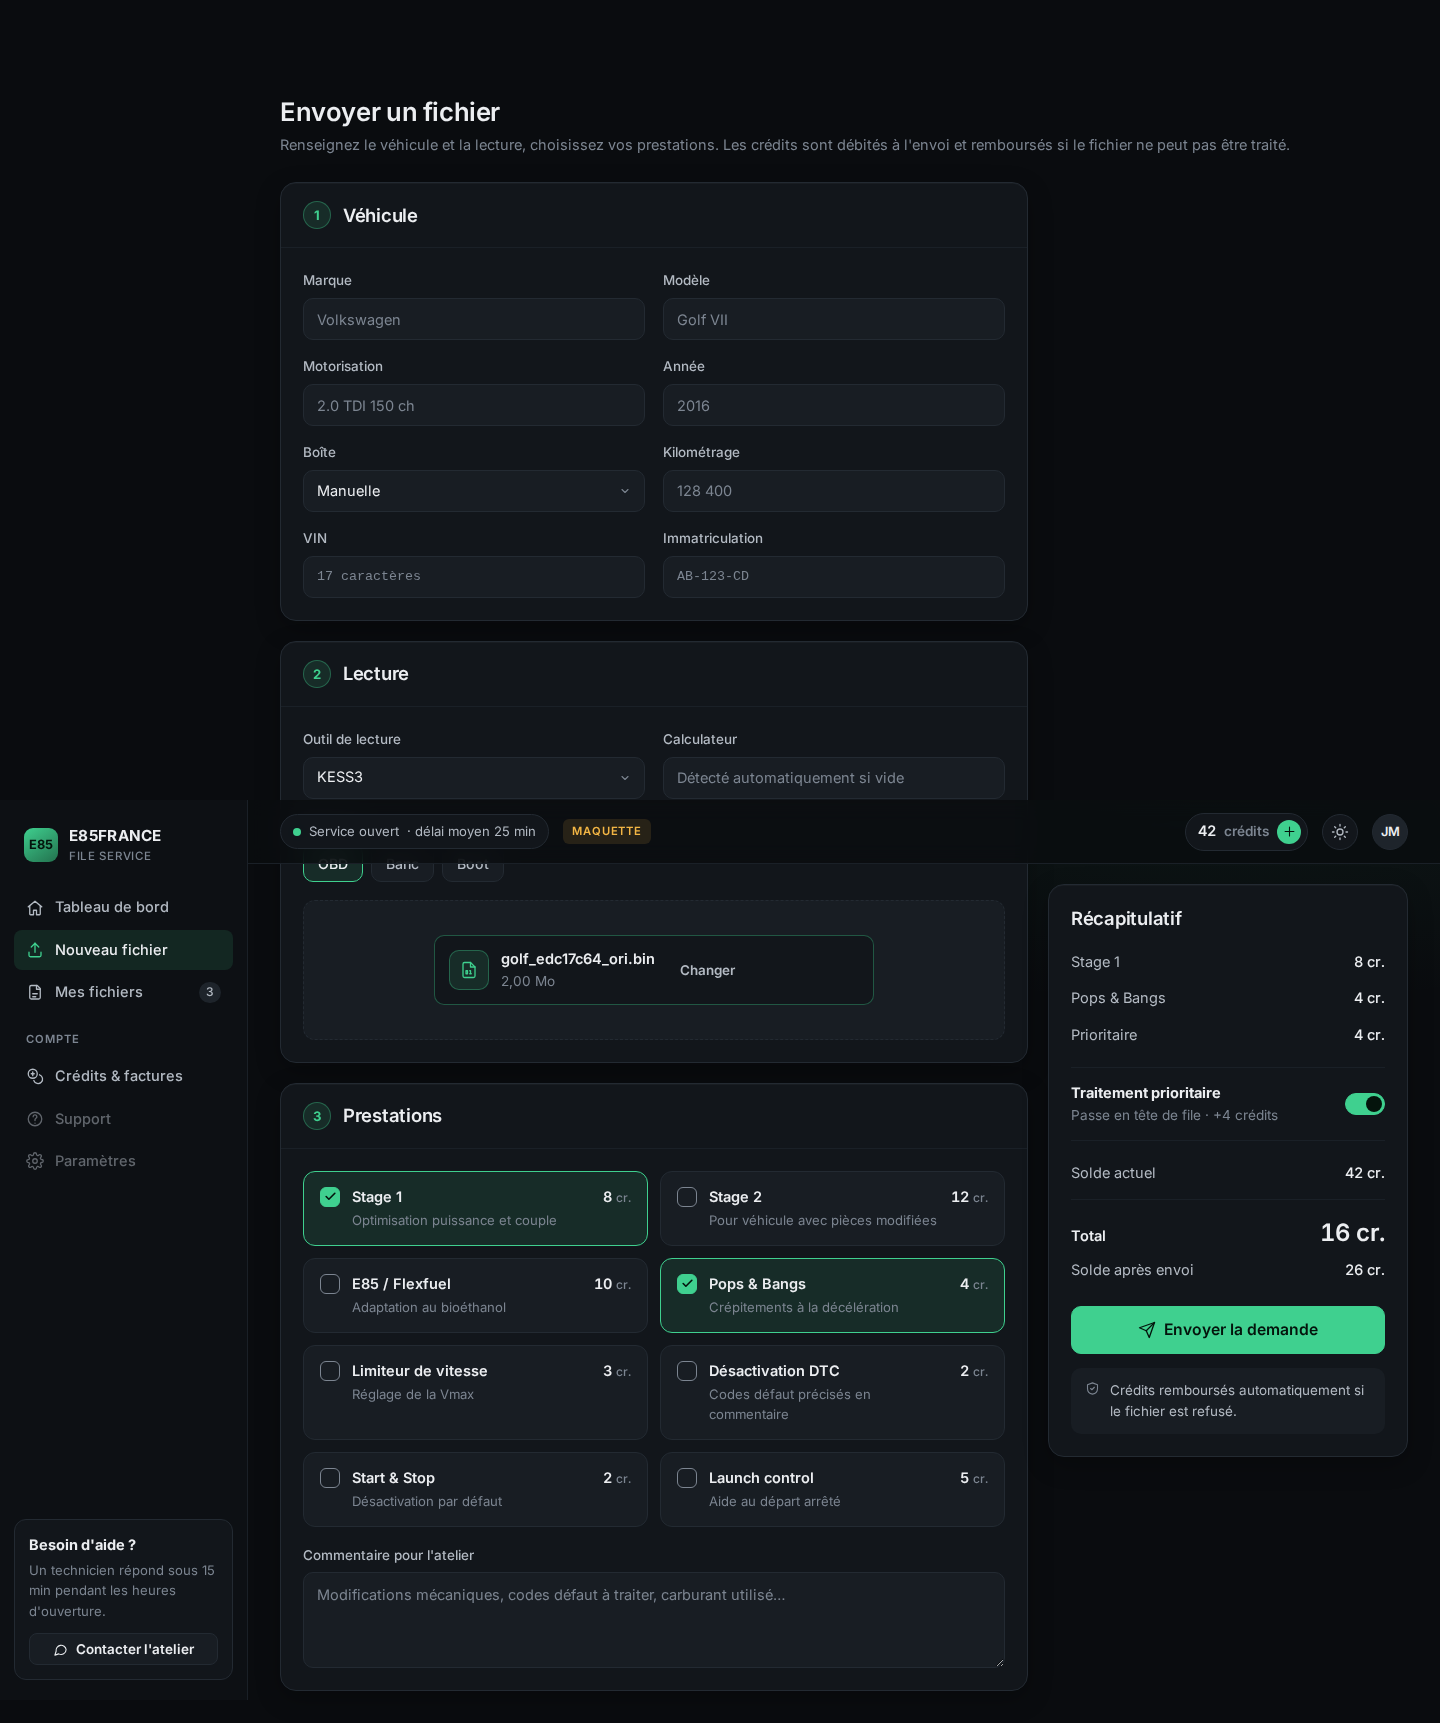
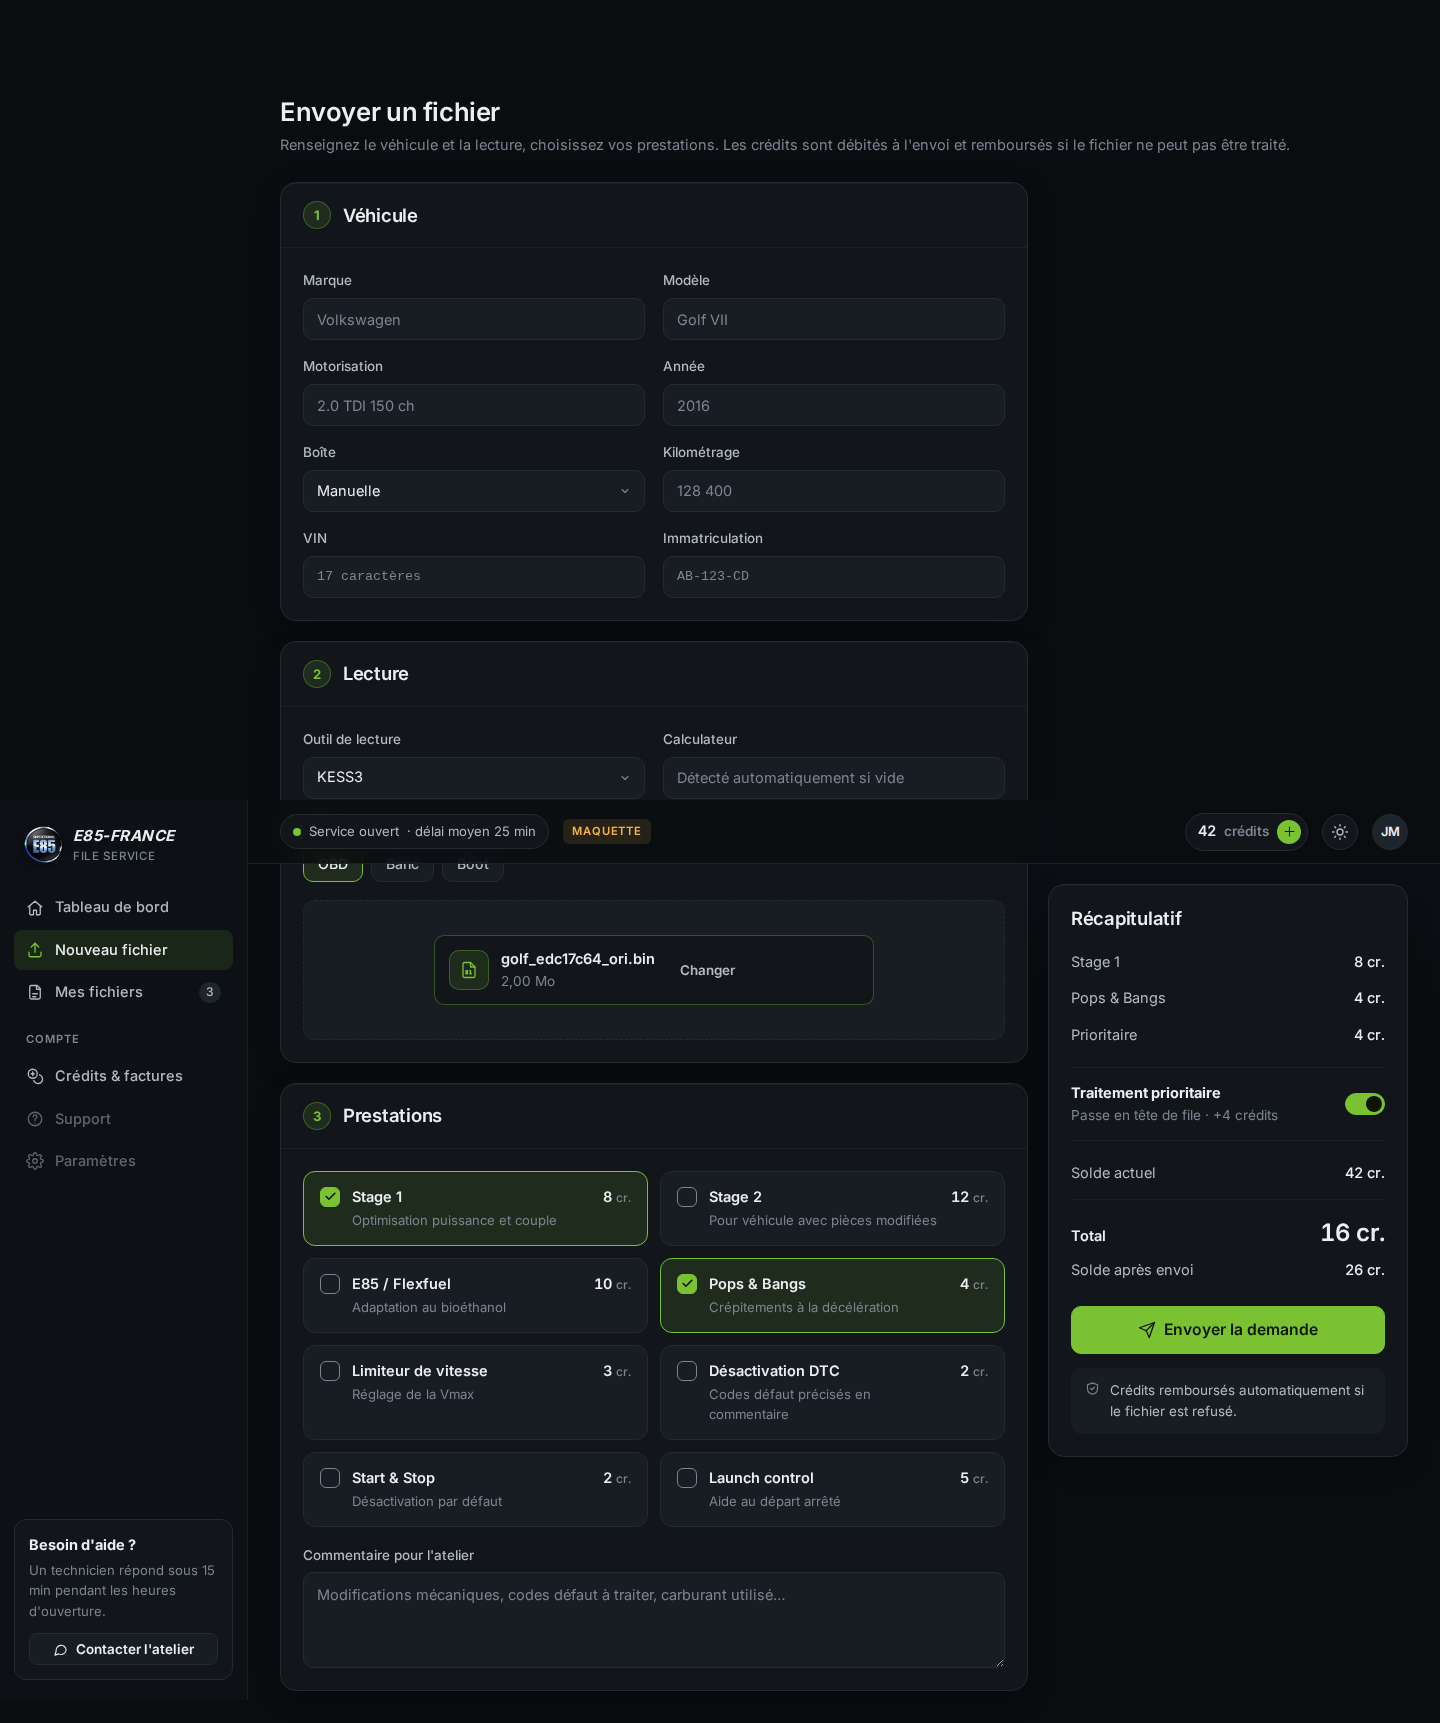
Identité E85-FRANCE sur l'espace client
Badge du logo (barre latérale, favicon), logo complet sur la page de
connexion, palette reprise du logo : vert des feuilles en couleur
principale, bleu de l'anneau en secondaire. Contrastes vérifiés en
sombre et en clair. Aperçus mis à jour.

Claude-Session: https://claude.ai/code/session_01ECHEL3HXPLkZdHULmqx9NC

diff --git a/static/fs/theme.css b/static/fs/theme.css
@@ -21,19 +21,21 @@
   --text: #eceef1;
   --text-2: #b3bac3;
   --muted: #7c8591;
-  --accent: #3fd08f;
-  --accent-hover: #5ddba2;
-  --accent-ink: #04140c;
-  --accent-soft: rgba(63, 208, 143, .12);
-  --accent-line: rgba(63, 208, 143, .35);
-  --ok: #3fd08f;      --ok-soft: rgba(63, 208, 143, .12);
+  /* Couleurs du logo : vert des feuilles, bleu de l'anneau */
+  --accent: #7ac231;
+  --accent-hover: #8fd246;
+  --accent-ink: #0c1402;
+  --accent-soft: rgba(122, 194, 49, .12);
+  --accent-line: rgba(122, 194, 49, .35);
+  --brand-blue: #4b8fe8;
+  --ok: #7ac231;      --ok-soft: rgba(122, 194, 49, .12);
   --warn: #f2b544;    --warn-soft: rgba(242, 181, 68, .13);
   --danger: #f06a6a;  --danger-soft: rgba(240, 106, 106, .13);
-  --info: #6aa7f8;    --info-soft: rgba(106, 167, 248, .13);
+  --info: #5b9cf0;    --info-soft: rgba(91, 156, 240, .13);
   --neutral-soft: rgba(124, 133, 145, .15);
   --shadow: 0 1px 0 rgba(255, 255, 255, .03) inset, 0 8px 24px rgba(0, 0, 0, .25);
   --shadow-pop: 0 16px 48px rgba(0, 0, 0, .45);
-  --glow: radial-gradient(1200px 500px at 85% -10%, rgba(63, 208, 143, .07), transparent 60%);
+  --glow: radial-gradient(1200px 500px at 85% -10%, rgba(75, 143, 232, .07), transparent 60%);
 
   --font: "Inter", system-ui, -apple-system, "Segoe UI", Roboto, sans-serif;
   --mono: ui-monospace, "SF Mono", "Cascadia Mono", Consolas, monospace;
@@ -56,15 +58,16 @@
   --text: #0f1419;
   --text-2: #3a4350;
   --muted: #697281;
-  --accent: #0f8f58;
-  --accent-hover: #0b7a4a;
+  --accent: #3a7810;
+  --accent-hover: #2f6509;
   --accent-ink: #ffffff;
-  --accent-soft: rgba(15, 143, 88, .09);
-  --accent-line: rgba(15, 143, 88, .35);
-  --ok: #0f8f58;      --ok-soft: rgba(15, 143, 88, .1);
+  --accent-soft: rgba(58, 120, 16, .09);
+  --accent-line: rgba(58, 120, 16, .35);
+  --brand-blue: #1f64c8;
+  --ok: #3a7810;      --ok-soft: rgba(58, 120, 16, .1);
   --warn: #b7791f;    --warn-soft: rgba(183, 121, 31, .12);
   --danger: #c53b3b;  --danger-soft: rgba(197, 59, 59, .1);
-  --info: #2f6fce;    --info-soft: rgba(47, 111, 206, .1);
+  --info: #1f64c8;    --info-soft: rgba(31, 100, 200, .1);
   --neutral-soft: rgba(105, 114, 129, .12);
   --shadow: 0 1px 2px rgba(16, 24, 40, .05), 0 1px 3px rgba(16, 24, 40, .04);
   --shadow-pop: 0 16px 40px rgba(16, 24, 40, .14);
@@ -113,13 +116,8 @@ button, input, select, textarea { font: inherit; color: inherit; }
   padding: 20px 14px;
 }
 .brand { display: flex; align-items: center; gap: 11px; padding: 4px 10px 22px; }
-.brand-mark {
-  width: 34px; height: 34px; border-radius: 9px;
-  display: grid; place-items: center;
-  background: linear-gradient(145deg, var(--accent), color-mix(in srgb, var(--accent) 55%, #000));
-  color: var(--accent-ink); font-weight: 700; font-size: .8rem; letter-spacing: -.02em;
-}
-.brand-name { font-weight: 700; letter-spacing: .02em; font-size: .95rem; }
+.brand-mark { width: 38px; height: 38px; flex: 0 0 38px; border-radius: 50%; box-shadow: 0 2px 10px rgba(0, 0, 0, .35); }
+.brand-name { font-weight: 700; letter-spacing: .03em; font-size: .95rem; font-style: italic; }
 .brand-sub { display: block; color: var(--muted); font-size: .72rem; font-weight: 500; letter-spacing: .06em; text-transform: uppercase; }
 
 .nav { display: flex; flex-direction: column; gap: 2px; }
@@ -524,8 +522,8 @@ button, input, select, textarea { font: inherit; color: inherit; }
   display: flex; flex-direction: column; justify-content: space-between;
   padding: 44px 56px;
   background:
-    radial-gradient(700px 420px at 0% 100%, rgba(63, 208, 143, .16), transparent 65%),
-    radial-gradient(600px 400px at 100% 0%, rgba(106, 167, 248, .08), transparent 60%),
+    radial-gradient(700px 420px at 0% 100%, rgba(122, 194, 49, .13), transparent 65%),
+    radial-gradient(600px 400px at 100% 0%, rgba(75, 143, 232, .12), transparent 60%),
     #07090b;
   color: #eceef1;
   border-right: 1px solid #161b21;
@@ -537,16 +535,16 @@ button, input, select, textarea { font: inherit; color: inherit; }
   mask-image: radial-gradient(ellipse at 30% 60%, #000 20%, transparent 75%);
 }
 .auth-brand > * { position: relative; z-index: 1; }
-.auth-brand .brand { padding: 0; }
+.auth-logo { display: block; width: 100%; max-width: 420px; height: auto; margin-left: -12px; }
 .auth-brand .brand-sub { color: #7c8591; }
 .auth-pitch h1 { font-size: 2.5rem; line-height: 1.12; letter-spacing: -.03em; max-width: 520px; }
-.auth-pitch h1 em { font-style: normal; color: #3fd08f; }
+.auth-pitch h1 em { font-style: normal; color: #7ac231; }
 .auth-pitch p { color: #9aa3ae; font-size: 1.02rem; margin-top: 16px; max-width: 460px; }
 .auth-points { display: grid; gap: 14px; margin-top: 36px; }
 .auth-point { display: flex; gap: 14px; align-items: flex-start; }
 .auth-point .ic {
   width: 36px; height: 36px; border-radius: 10px; flex: 0 0 36px; display: grid; place-items: center;
-  background: rgba(63, 208, 143, .1); color: #3fd08f; border: 1px solid rgba(63, 208, 143, .25);
+  background: rgba(122, 194, 49, .1); color: #7ac231; border: 1px solid rgba(122, 194, 49, .25);
 }
 .auth-point strong { display: block; font-weight: 600; }
 .auth-point span { color: #8a929d; font-size: .88rem; }

diff --git a/templates/fs/base.html b/templates/fs/base.html
@@ -6,6 +6,7 @@
   <meta name="viewport" content="width=device-width, initial-scale=1">
   <title>{% block title %}Espace client{% endblock %} · {{ shop.name }}</title>
   <script>try { var t = localStorage.getItem('fs-theme'); if (t) document.documentElement.dataset.theme = t; } catch (e) {}</script>
+  <link rel="icon" type="image/png" href="{{ url_for('static', filename='brand/favicon.png') }}">
   <link rel="preload" href="{{ url_for('static', filename='fonts/inter-400.woff2') }}" as="font" type="font/woff2" crossorigin>
   <link rel="stylesheet" href="{{ url_for('static', filename='fs/theme.css') }}?v={{ version }}">
 </head>
@@ -14,7 +15,7 @@
 <div class="shell">
   <aside class="side" id="side">
     <a class="brand" href="{{ url_for('fs.dashboard') }}">
-      <span class="brand-mark">{{ shop.initials }}</span>
+      <img class="brand-mark" src="{{ url_for('static', filename='brand/badge.png') }}" alt="" width="38" height="38">
       <span><span class="brand-name">{{ shop.name }}</span><span class="brand-sub">File service</span></span>
     </a>
 

diff --git a/templates/fs/login.html b/templates/fs/login.html
@@ -3,10 +3,7 @@
 {% block body %}
 <div class="auth">
   <section class="auth-brand">
-    <div class="brand">
-      <span class="brand-mark">{{ shop.initials }}</span>
-      <span><span class="brand-name">{{ shop.name }}</span><span class="brand-sub">File service</span></span>
-    </div>
+    <img class="auth-logo" src="{{ url_for('static', filename='brand/logo-sombre.webp') }}" alt="{{ shop.name }} — Superéthanol E85" width="1000" height="320">
 
     <div class="auth-pitch">
       <h1>Vos fichiers moteur,<br><em>préparés par des spécialistes.</em></h1>

diff --git a/fileservice.py b/fileservice.py
@@ -16,7 +16,7 @@ bp = Blueprint("fs", __name__, url_prefix="/espace")
 
 TZ = ZoneInfo("Europe/Paris")
 
-SHOP = {"name": "E85FRANCE", "initials": "E85"}
+SHOP = {"name": "E85-FRANCE"}
 
 # Horaires d'ouverture : (jour 0 = lundi) -> (ouverture, fermeture) en heures
 HOURS = {0: (8, 19), 1: (8, 19), 2: (8, 19), 3: (8, 19), 4: (8, 19), 5: (9, 13)}

diff --git a/CHANGELOG.md b/CHANGELOG.md
@@ -12,6 +12,8 @@ Fileservice : thème et espace client (maquette).
   crédits & factures.
 - **Thème** unique `static/fs/theme.css` : sombre par défaut + mode clair (bouton dans l'en-tête),
   police Inter hébergée localement (aucun appel à Google), responsive mobile.
+- **Identité E85-FRANCE** : badge du logo dans la barre latérale et en favicon, logo complet sur
+  la page de connexion, palette reprise du logo (vert des feuilles, bleu de l'anneau).
 - ⚠ Maquette : toutes les pages tournent sur des données de démonstration (`fileservice.py`),
   rien n'est encore enregistré.
 
